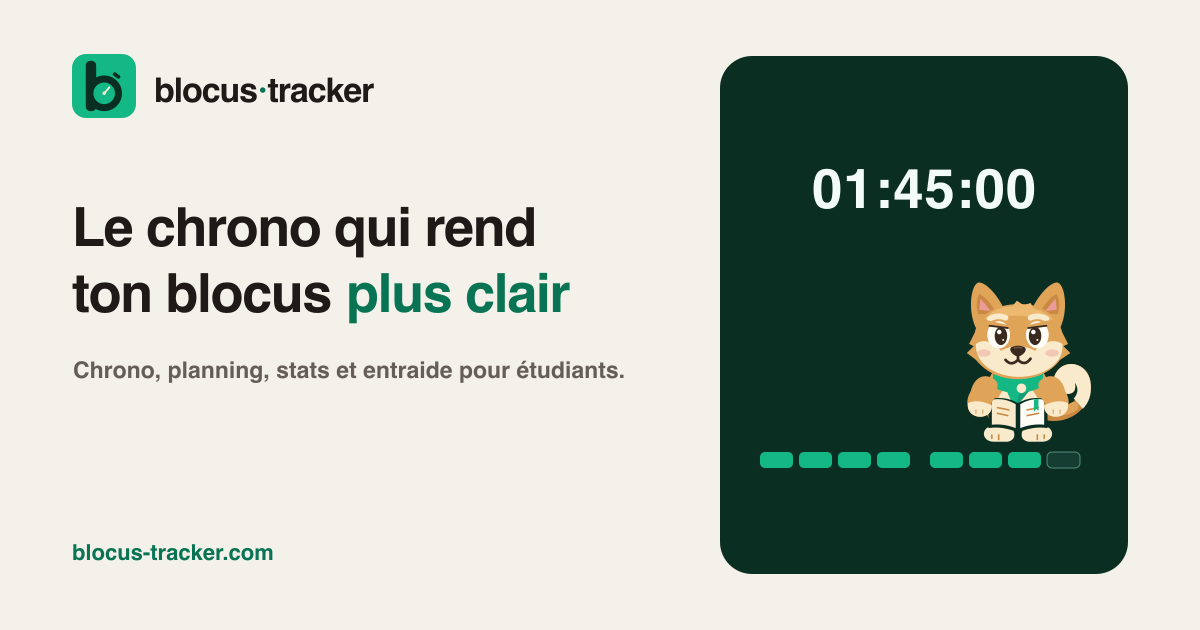
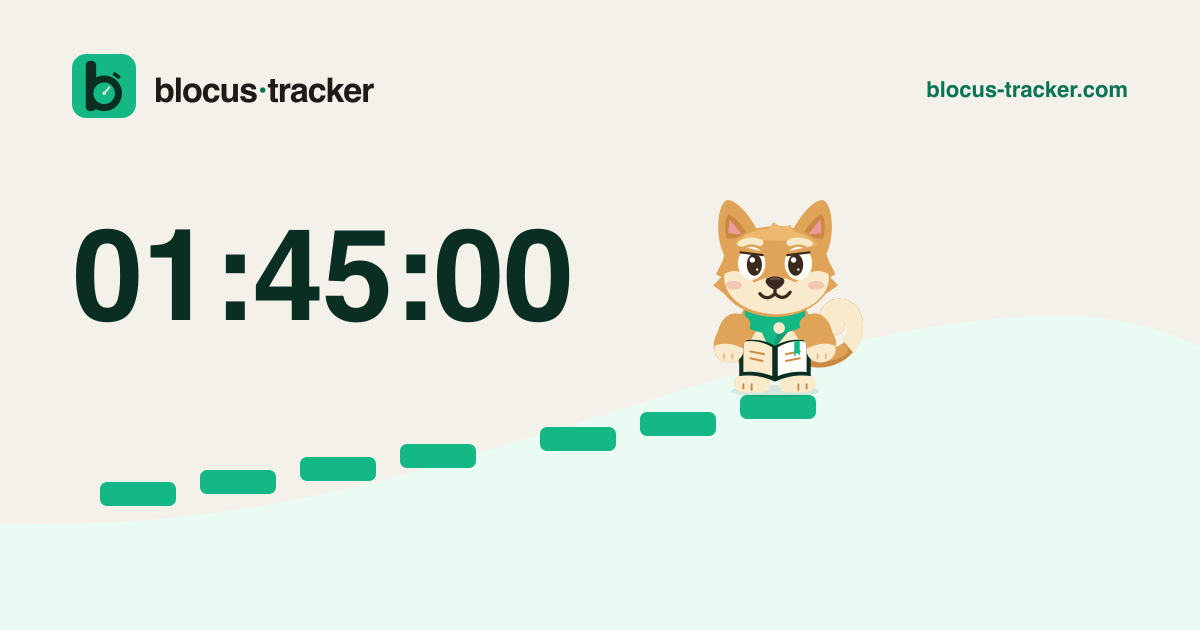
Refine Open Graph progress scene

diff --git a/scripts/generate-og.js b/scripts/generate-og.js
@@ -65,21 +65,22 @@ async function makeMascot(size) {
   return sharp(Buffer.from(markup)).resize(size, size).png().toBuffer();
 }
 
-// Huit quarts d'heure : 1 h 45 réellement étudiée, puis un dernier logement
-// prévu. L'écart central regroupe les unités par heure comme dans l'app.
-function studyBlocks(x, y) {
-  const unitWidth = 33;
-  const unitHeight = 16;
-  const gap = 6;
-  const hourGap = 14;
-  return Array.from({ length: 8 }, (_, index) => {
-    const clusterOffset = index >= 4 ? hourGap : 0;
-    const bx = x + index * (unitWidth + gap) + clusterOffset;
-    if (index === 7) {
-      return `<rect x="${bx}" y="${y}" width="${unitWidth}" height="${unitHeight}" rx="5" fill="#153D31" stroke="#8FD4B8" stroke-opacity="0.55"/>`;
-    }
-    return `<rect x="${bx}" y="${y}" width="${unitWidth}" height="${unitHeight}" rx="5" fill="#14B885"/>`;
-  }).join("");
+// Sept quarts d'heure, exactement 1 h 45. Les blocs deviennent une trajectoire
+// ascendante ; le grand écart après le quatrième conserve le groupement horaire
+// de l'app et la mascotte se tient sur la dernière unité réellement gagnée.
+function studyBlocks() {
+  const positions = [
+    [100, 482],
+    [200, 470],
+    [300, 457],
+    [400, 444],
+    [540, 427],
+    [640, 412],
+    [740, 395],
+  ];
+  return positions.map(([x, y]) => (
+    `<rect x="${x}" y="${y}" width="76" height="24" rx="7" fill="#14B885"/>`
+  )).join("");
 }
 
 async function main() {
@@ -101,33 +102,29 @@ async function main() {
 
   <rect width="${W}" height="${H}" fill="#F4F1EA"/>
 
-  <!-- Une seule surface forte : le chrono, centre de gravité du produit. -->
-  <rect x="720" y="56" width="408" height="518" rx="32" fill="#0B2E23"/>
+  <!-- Le mouvement vient du progrès lui-même : un sol menthe accompagne la
+       trajectoire des unités, sans enfermer le chrono dans une carte. -->
+  <path d="M-70 520 C190 538 348 492 512 443 C697 388 865 322 1042 316 C1115 313 1172 329 1240 367 L1240 630 L-70 630Z" fill="#EAFBF4"/>
 
   <!-- Wordmark -->
   <text x="154" y="102" class="display" font-size="34" letter-spacing="-1.1" fill="#1F1A17">blocus<tspan fill="#087454">·</tspan>tracker</text>
 
-  <!-- Promesse -->
-  <text x="72" y="246" class="display" font-size="54" letter-spacing="-1.4" fill="#1F1A17">Le chrono qui rend</text>
-  <text x="72" y="312" class="display" font-size="54" letter-spacing="-1.4" fill="#1F1A17">ton blocus <tspan fill="#087454">plus clair</tspan></text>
-  <text x="73" y="378" class="body" font-size="23" font-weight="600" fill="#655E58">Chrono, planning, stats et entraide pour étudiants.</text>
+  <!-- Instrument de mesure : le chiffre et sa matérialisation exacte. -->
+  <text x="72" y="320" class="numeric" font-size="128" letter-spacing="-1.5" fill="#0B2E23">01:45:00</text>
+  ${studyBlocks()}
 
-  <!-- Instrument de mesure : temps + unités de quinze minutes. -->
-  <text x="924" y="208" text-anchor="middle" class="numeric" font-size="55" letter-spacing="0.6" fill="#F2FBF7">01:45:00</text>
-  ${studyBlocks(760, 452)}
-
-  <text x="72" y="560" class="body" font-size="22" font-weight="700" fill="#087454">blocus-tracker.com</text>
+  <text x="1128" y="97" text-anchor="end" class="body" font-size="22" font-weight="700" fill="#087454">blocus-tracker.com</text>
 </svg>`;
 
   const out = path.join(ROOT, "public", "seo-preview.png");
   const base = await sharp(Buffer.from(svg)).resize(W, H).png().toBuffer();
-  const [logo, mascot] = await Promise.all([makeLogoTile(64), makeMascot(182)]);
+  const [logo, mascot] = await Promise.all([makeLogoTile(64), makeMascot(220)]);
 
   await sharp(base)
     .composite([
       { input: logo, left: 72, top: 54 },
       // Le chien est posé sur la septième unité : le progrès lui donne sa place.
-      { input: mascot, left: 927, top: 270 },
+      { input: mascot, left: 665, top: 185 },
     ])
     .png({ compressionLevel: 9 })
     .toFile(out);

diff --git a/lib/seo.js b/lib/seo.js
@@ -12,7 +12,7 @@ export const SITE_NAME = "Blocus Tracker";
 export const SITE_AUTHOR = "Mathias Dock";
 export const DEFAULT_LOCALE = "fr_BE";
 export const BRAND_COLOR = "#14B885";
-export const SEO_IMAGE_PATH = "/seo-preview.png?v=20260923";
+export const SEO_IMAGE_PATH = "/seo-preview.png?v=20260923-2";
 
 // Source unique pour la FAQ visible de l'accueil et son JSON-LD. Garder les
 // deux synchronises evite de promettre aux moteurs un contenu absent de la page.

diff --git a/AI_CHANGELOG.md b/AI_CHANGELOG.md
@@ -2926,4 +2926,4 @@ Verification : 5 tests unitaires des etats direct/iOS/session fermee/installe, l
 
 ## 2026-09-23 — Codex — L'image de partage devient un vrai instrument Blocus Tracker
 
-L'aperçu Open Graph 1200×630 abandonne le fond dégradé, l'horloge fantôme et les barres verticales décoratives. La nouvelle composition reprend le canevas crème, une seule surface d'encre, les polices locales, le vrai logo et huit Study Blocks horizontaux : sept quarts d'heure étudiés sur un objectif de deux heures. La mascotte Focus est rendue directement depuis `components/Mascot.js` et se tient au seuil de progression, sans illustration dupliquée ni faux écran produit. L'URL de l'image Open Graph est versionnée pour forcer les plateformes de partage à récupérer le nouveau rendu.
+L'aperçu Open Graph 1200×630 abandonne le fond dégradé, l'horloge fantôme, le texte de bannière et la grande carte d'encre. La composition reprend le canevas crème, les polices locales et le vrai logo, puis fait de la donnée la scène : `01:45:00`, exactement sept Study Blocks de quinze minutes groupés après la première heure, et une trajectoire ascendante sur un sol menthe. La mascotte Focus est rendue directement depuis `components/Mascot.js` et se tient sur la dernière unité gagnée, sans illustration dupliquée ni faux écran produit. L'URL de l'image Open Graph est versionnée pour forcer les plateformes de partage à récupérer le nouveau rendu.
